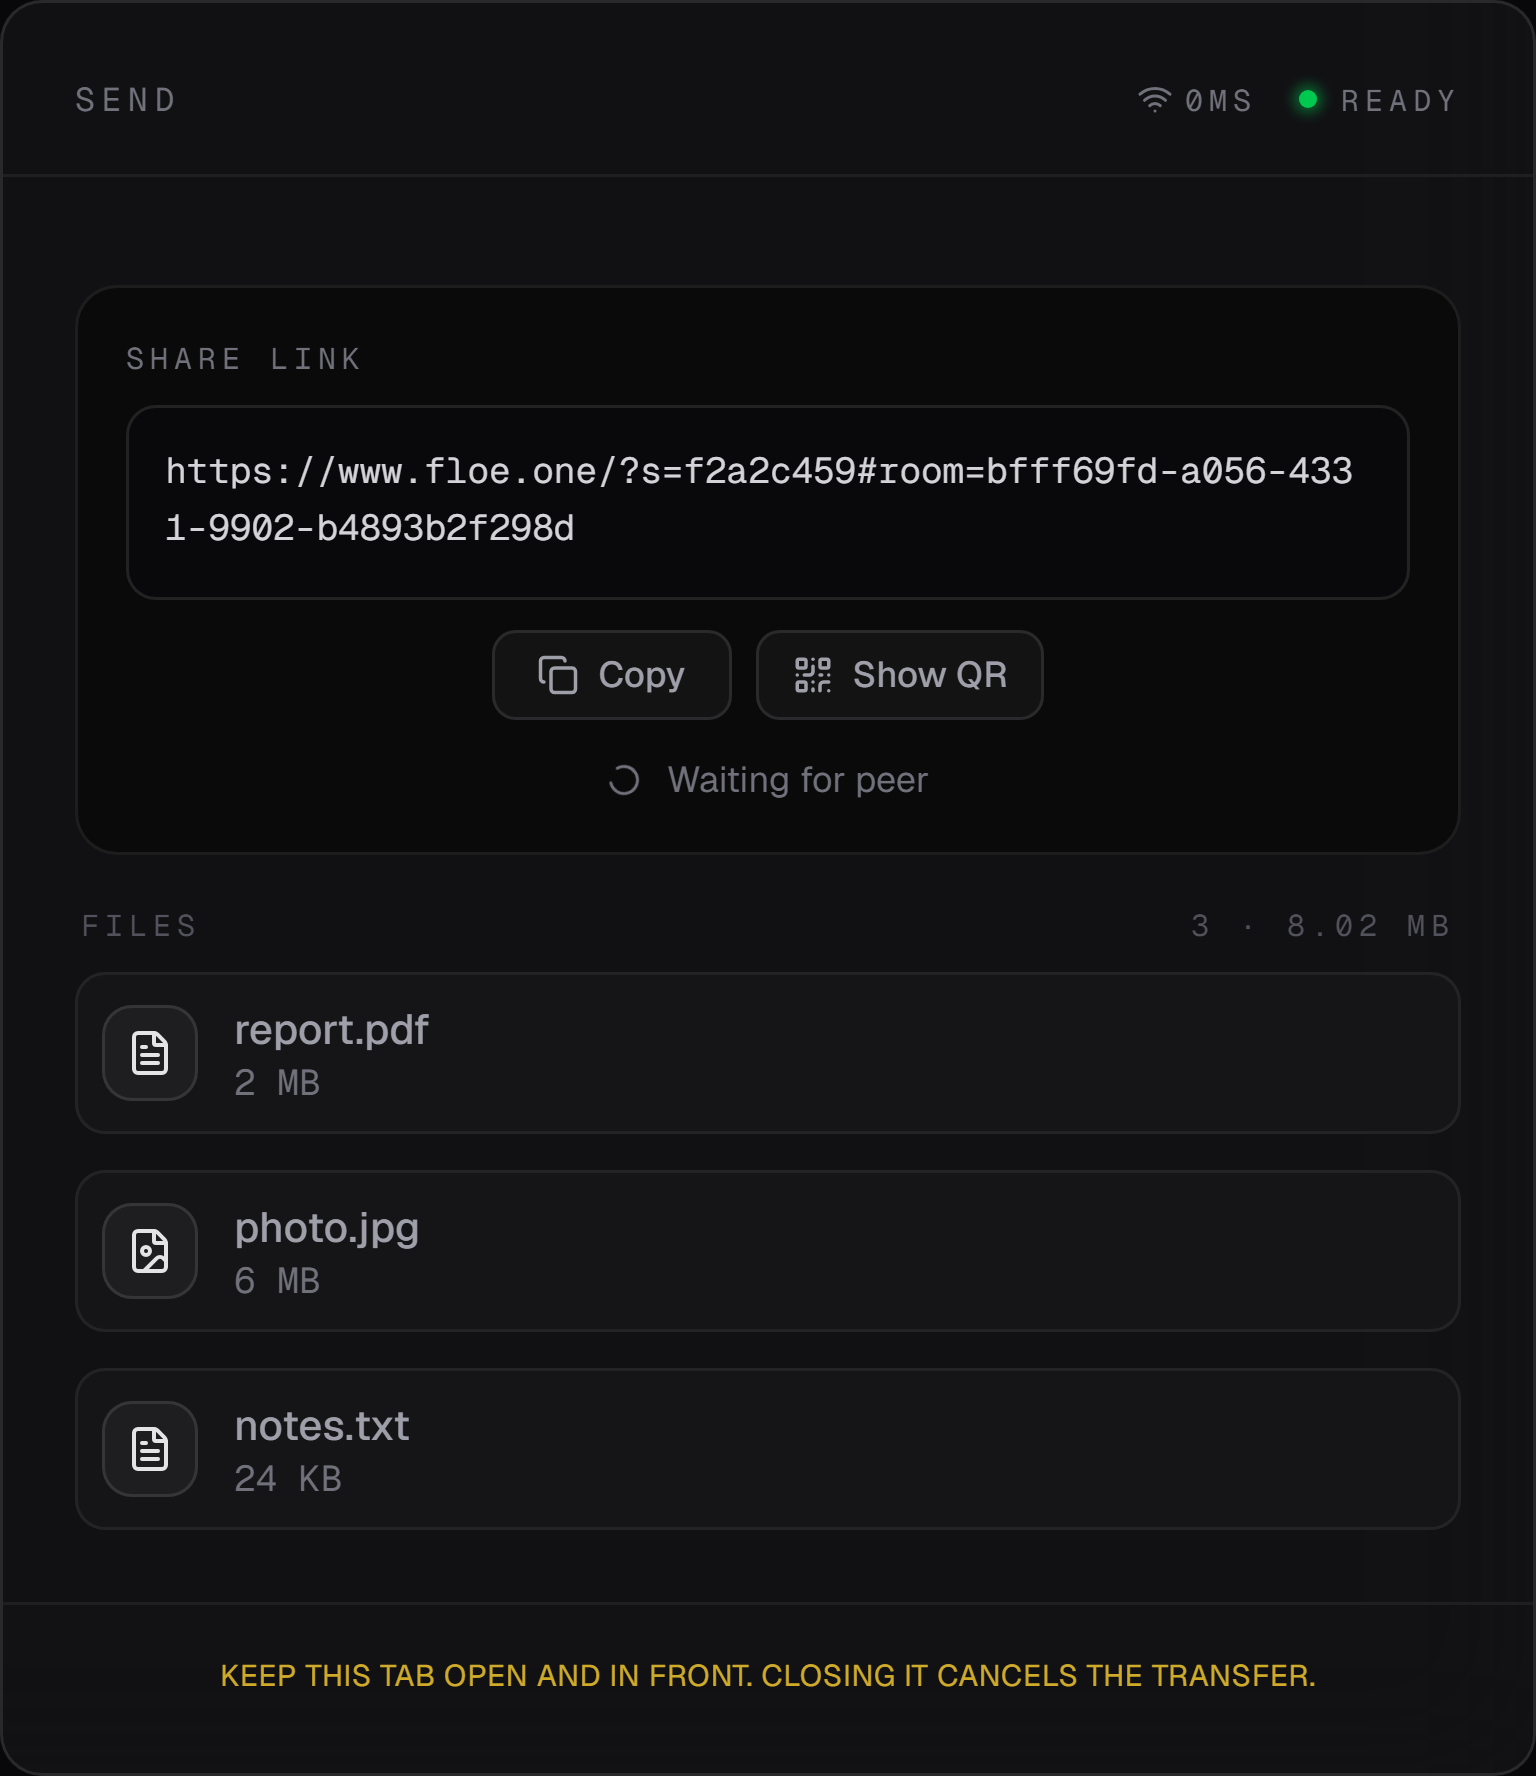
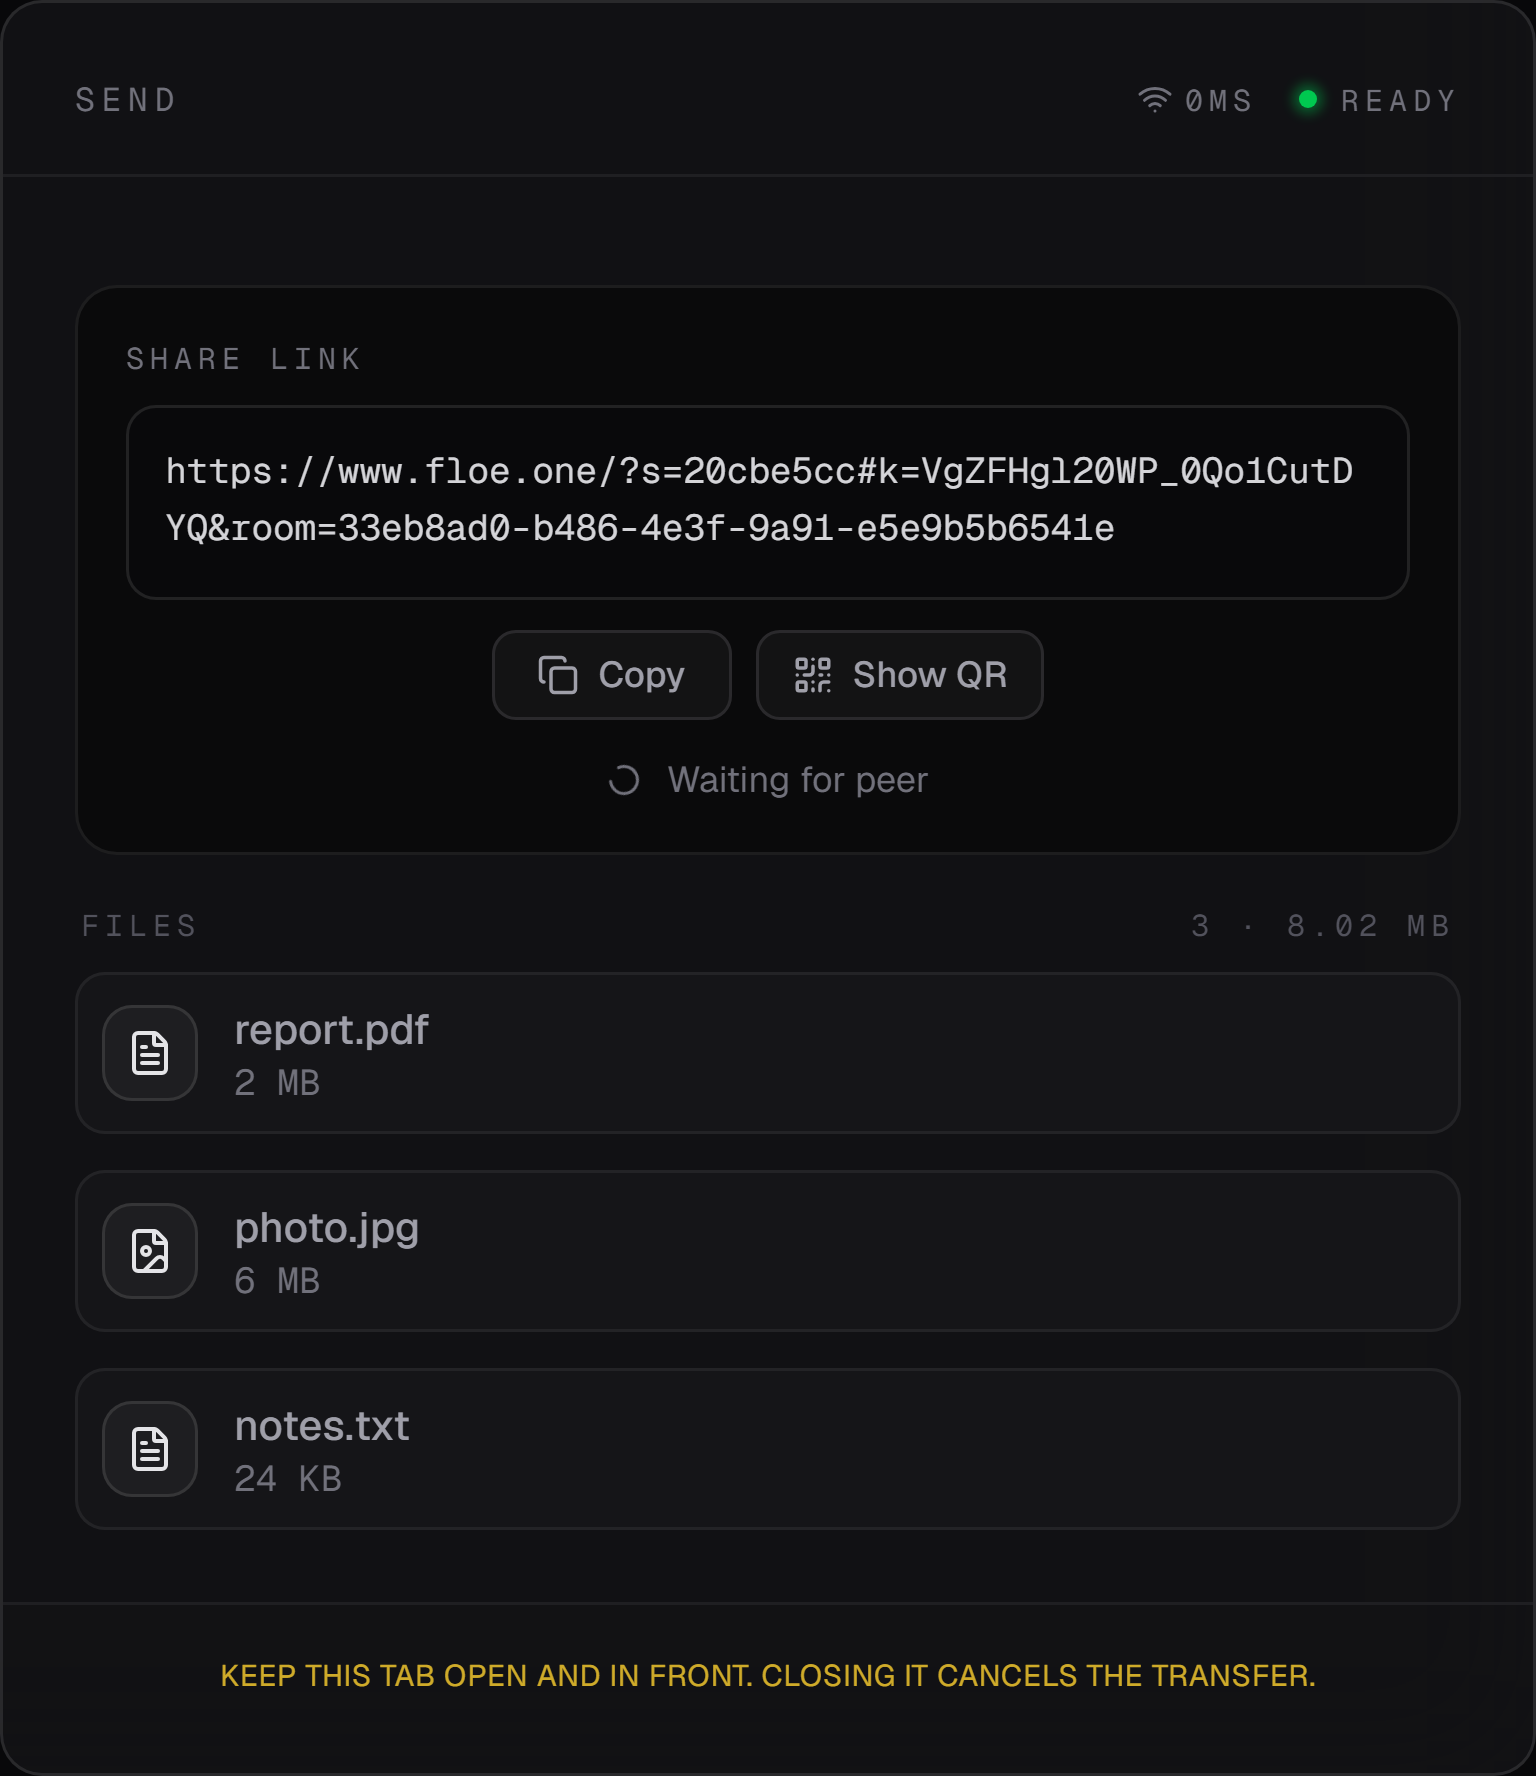
chore(release): point the site and docs at desktop-v1.1.0 and v1.12.0 (#900)
The tags exist and their assets are verified, so the download page, the docs'
examples and the release snapshot move to them.

The privacy policy says who makes and who checks a link key now that floe 1.12
and Floe Desktop 1.1 do. Its log sentence, and the docs' twin of it, now speak for
the server and for the proxy in front of it, because a room code travels in a
request path. The running Caddy on the floe.one VM was read on 2026-11-05: no
access log on any server, and no /api/code/ path in its journal or in PM2's log.

README and SECURITY name the link key and what it misses. The web docs picture is
retaken with a keyed link. The Desktop picture stays, with a caption that says it
is from 1.0.x, since retaking it would need a window on the owner's desktop during
the release.

Changed region(s): [[0.0938, 0.2477, 0.875, 0.3097]]

diff --git a/client/app/privacy/page.tsx b/client/app/privacy/page.tsx
@@ -62,8 +62,12 @@ export const metadata: Metadata = {
 // Rechecked on 2026-11-03, for the link key on a request link: what the /r page reads
 // and checks (lib/request/requestLink.ts, components/RequestVisitor.tsx,
 // lib/request/visitorState.ts) and the warning it sends, the same one by the same helper
-// (lib/keyCheckReport.ts, role visitor). No released Floe Desktop makes such a link yet,
-// so the sentence in How the transfer works stands (it changes with Desktop 1.1).
+// (lib/keyCheckReport.ts, role visitor).
+// Rechecked on 2026-11-05, for floe 1.12 and Floe Desktop 1.1, which make and check keyed
+// links (cli/engine/linkkey, cli/engine/transfer/keycheck.go), and for the log sentence, read
+// from the floe.one VM that day: the running Caddy has no access log on any server, and neither
+// its journal over 7 days nor PM2's log held a /api/code/ path. A code travels in that path, so
+// turning a request log on there has to change the sentence.
 // Rechecked on 2026-10-14: the browser's Sentry reports carry breadcrumbs
 // (the SDK's default clicks, navigations, fetch and XHR addresses and console
 // lines), each scrubbed of the room link by beforeBreadcrumb
@@ -183,15 +187,19 @@ export default function PrivacyPolicy() {
                     The encryption is WebRTC&apos;s own (DTLS), with keys that exist only on the two
                     devices for that one transfer. The codes the two devices use to recognize each
                     other (their certificate fingerprints) pass through our signaling server. A link
-                    made in the web app also carries a random link key in its fragment, which no
-                    server receives. Once the two devices connect, each one that holds the link key
+                    made in the web app, <InlineCode>floe</InlineCode> 1.12 or later, or Floe Desktop
+                    1.1 or later also carries a random link key in its fragment, which no server
+                    receives. Once the two devices connect, each one that holds the link key
                     proves it to the other, tied to the certificates actually in use, and the
                     receiving device stops the transfer before any file arrives if the sender cannot.
                     So a server that swaps the fingerprints on such a link is caught. A room code, and
-                    a link made by the CLI or Floe Desktop, carries no link key yet, and a sender in
-                    the browser does not yet refuse a receiver that cannot show the link key, and
-                    sends a file&apos;s name and size before that check has finished, so in those cases
-                    you are still trusting that server; the full list of what Floe
+                    a link made by an older <InlineCode>floe</InlineCode> or Floe Desktop, carries no
+                    link key, and <InlineCode>floe</InlineCode> before 1.12 and Floe Desktop before 1.1
+                    do not check the link key when receiving. A sender on a share link does not yet
+                    refuse a receiver that cannot show the link key, unless you use{' '}
+                    <InlineCode>floe send --link-only</InlineCode>, and it sends a file&apos;s name and
+                    size before that check has finished, so in those cases you are still trusting that
+                    server; the full list of what Floe
                     does not protect against is in{' '}
                     <LegalLink href="https://www.floe.one/docs/how-it-works/known-limitations">
                         Known limitations
@@ -372,7 +380,8 @@ export default function PrivacyPolicy() {
                     and a self-hosted copy of Floe ships with both turned off.
                 </p>
                 <p>
-                    The link you share carries its room id, and on a link made in the web app a link
+                    The link you share carries its room id, and on a link made in the web app,{' '}
+                    <InlineCode>floe</InlineCode> 1.12 or later, or Floe Desktop 1.1 or later, a link
                     key, in the URL fragment (the part after the{' '}
                     <InlineCode>#</InlineCode>). Browsers never include the fragment in HTTP requests,
                     so it stays out of hosting logs and referrer headers, and our analytics script is
@@ -386,8 +395,9 @@ export default function PrivacyPolicy() {
                     Floe Desktop, when it registers the three-word code that stands in for the link.
                     Both are held in memory only: the room is dropped when the last device leaves it,
                     and a code&apos;s mapping to its room id is dropped when the receiver joins or the
-                    room closes, and about ten minutes after the code was made at the latest. Neither
-                    is written to a log. Our signaling server never receives the link key, which stays
+                    room closes, and about ten minutes after the code was made at the latest. Our
+                    signaling server does not write either to its log, and the proxy in front of it
+                    keeps no request log. Our signaling server never receives the link key, which stays
                     in the link and in the memory of the page that read it.
                 </p>
                 <p>

diff --git a/client/lib/privacyText.test.ts b/client/lib/privacyText.test.ts
@@ -104,20 +104,25 @@ describe('the privacy page: what the link key does', () => {
         expect(page).not.toContain('no Floe app shows a verification code');
         expect(page).not.toContain('every WebRTC application');
         expect(page).toContain(
-            'A link made in the web app also carries a random link key in its fragment, which no server receives.',
+            'A link made in the web app, <InlineCode>floe</InlineCode> 1.12 or later, or Floe Desktop 1.1 or later also carries a random link key in its fragment, which no server receives.',
         );
         expect(page).toContain('So a server that swaps the fingerprints on such a link is caught.');
     });
 
     it('says where you still trust the server, and that a file name can go ahead of the check', () => {
-        expect(page).toContain('A room code, and a link made by the CLI or Floe Desktop, carries no link key yet,');
+        expect(page).toContain('A room code, and a link made by an older <InlineCode>floe</InlineCode> or Floe Desktop, carries no link key,');
         expect(page).toContain(
-            'and a sender in the browser does not yet refuse a receiver that cannot show the link key, and sends a file&apos;s name and size before that check has finished, so in those cases you are still trusting that server;',
+            'and <InlineCode>floe</InlineCode> before 1.12 and Floe Desktop before 1.1 do not check the link key when receiving.',
+        );
+        expect(page).toContain(
+            "A sender on a share link does not yet refuse a receiver that cannot show the link key, unless you use{' '} <InlineCode>floe send --link-only</InlineCode>, and it sends a file&apos;s name and size before that check has finished, so in those cases you are still trusting that server;",
         );
     });
 
     it('says the fragment holds it, and the signaling server never receives it', () => {
-        expect(page).toContain('The link you share carries its room id, and on a link made in the web app a link key, in the URL fragment');
+        expect(page).toContain(
+            "The link you share carries its room id, and on a link made in the web app,{' '} <InlineCode>floe</InlineCode> 1.12 or later, or Floe Desktop 1.1 or later, a link key, in the URL fragment",
+        );
         expect(page).toContain('Our signaling server never receives the link key,');
     });
 });
@@ -141,8 +146,8 @@ describe('the privacy page: the warning a failed check sends', () => {
 
 describe('the privacy page: a request link and the link key', () => {
     // W2 and T6-3: what the /r page now does with a link that holds one. The sentence says
-    // "a request link that carries one", because no released Floe Desktop makes such a link
-    // yet, which the sentence above it still says (decision D12).
+    // "a request link that carries one", because a link from Floe Desktop 1.0.x holds none,
+    // which the sentence above it says.
     it('names the shape, and calls the part after the # a room id', () => {
         expect(page).not.toContain('#&lt;key&gt;');
         expect(page).toContain('A request link looks like <InlineCode>floe.one/r/&lt;link id&gt;#&lt;room id&gt;</InlineCode>');
@@ -168,8 +173,17 @@ describe('the privacy page: a request link and the link key', () => {
         expect(Object.keys(report?.tags ?? {}).sort()).toEqual(['linkkey.mode', 'linkkey.outcome', 'linkkey.path', 'linkkey.role']);
     });
 
-    it('still says a link Floe Desktop makes carries no key yet', () => {
-        expect(page).toContain('A room code, and a link made by the CLI or Floe Desktop, carries no link key yet,');
+    it('says a link from an older Floe Desktop carries no key', () => {
+        expect(page).toContain('A room code, and a link made by an older <InlineCode>floe</InlineCode> or Floe Desktop, carries no link key,');
+    });
+});
+
+describe('the privacy page: what is logged', () => {
+    // A room code travels in the path of GET /api/code/:code, so the sentence has to speak for
+    // the proxy as well as the server. Read from the VM on 2026-11-05; see the page's header.
+    it('speaks for the server and for the proxy in front of it', () => {
+        expect(page).not.toContain('is written to a log.');
+        expect(page).toContain('Our signaling server does not write either to its log, and the proxy in front of it keeps no request log.');
     });
 });
 

diff --git a/client/components/landing/CliTerminal.tsx b/client/components/landing/CliTerminal.tsx
@@ -188,7 +188,7 @@ export function CliTerminal() {
                         {shownStage >= 4 && (
                             <div>
                                 <span className="text-zinc-500">{'  Link'}</span>
-                                {'   https://floe.one/#room=7f3a…'}
+                                {'   https://floe.one/#k=9xQ2…&room=7f3a…'}
                             </div>
                         )}
                         {shownStage >= 5 && (

diff --git a/client/lib/desktopRelease.ts b/client/lib/desktopRelease.ts
@@ -14,8 +14,8 @@
  */
 
 // Bump these two together on every desktop release.
-export const DESKTOP_VERSION = '1.0.4';
-export const DESKTOP_RELEASE_DATE = 'Oct 28, 2026';
+export const DESKTOP_VERSION = '1.1.0';
+export const DESKTOP_RELEASE_DATE = 'Nov 5, 2026';
 
 /**
  * The Microsoft Store listing: the primary Windows install path. The Store

diff --git a/CLAUDE.md b/CLAUDE.md
@@ -142,7 +142,7 @@ Every link Floe makes carries a random 128-bit link key in the fragment, which n
 - **Who enforces and who detects.** A receiver holding the link key (a browser, `floe receive`, Desktop Receive, a request link's host) refuses before any name or byte, and gives a silent sender 30 s (`KEY_RECEIVE_WAIT_MS`, Go's `receiveIdleTimeout`). `/r`, `floe send --to` on a keyed link and `floe send --link-only` wait 15 s for the proof before naming a file (`KeyCheckWait`, `KEY_CHECK_WAIT_MS`). The web sender, plain `floe send` and Desktop Send only detect: a wrong proof stops them and no proof does not, because a receiver by code has none, so a middle playing a keyless receiver gets the whole file. `linkKeyMode` in `keySession.ts` is the only reader of the browser's enforce levers.
 - **Levers,** each a one-line deploy, in `client/lib/transfer/protocol.ts`: `MAKE_LINK_KEYS` (the web sender adds a link key), `ENFORCE_LINK_KEYS` (off, every page only observes), `ENFORCE_SHARE_LINK_KEY` (the cutover, off until most people run a floe that proves the link key) and `KEY_CHECK_SDP_FALLBACK`. Go has none: a bad Go build is the next number.
 - **What it holds to.** The link key reaches no server, log, report or store, on any surface. `LinkKey` in the browser and `linkkey.Key` in Go redact themselves. `client/lib/keyCheckReport.ts` sends one Sentry warning of four enums for a check that failed, and `client/lib/linkKeyBoundaries.test.ts` pins the exits. A real middle is in `transfer/keycheck_mitm_test.go`, and `client/e2e/link-key.spec.ts` drives the browser.
-- **What the docs must say.** `docs/how-it-works/known-limitations.mdx` is the account: never that the server is no longer trusted, and a Go-side sentence names its floor (`floe` 1.12, Floe Desktop 1.1) so it is true before those ship. The strings are frozen in `client/lib/linkKeyCopy.ts`, `visitorCopy.ts`, `requestCopy.ts`, `desktop/frontend/src/errors.ts` and the line constants of `send.go`, `receive.go` and `sendto.go`.
+- **What the docs must say.** `docs/how-it-works/known-limitations.mdx` is the account: never that the server is no longer trusted, and a Go-side sentence names its floor (`floe` 1.12, Floe Desktop 1.1) so it stays true of older builds. The strings are frozen in `client/lib/linkKeyCopy.ts`, `visitorCopy.ts`, `requestCopy.ts`, `desktop/frontend/src/errors.ts` and the line constants of `send.go`, `receive.go` and `sendto.go`.
 
 ### Relay Size Limit
 Relayed (TURN) transfers are capped at 2 GB per session; Floe sets no size limit on a direct transfer (a browser that receives is still limited by what that browser can hold). The cap is a sender-side, pre-transfer gate: once the connection is established the sender inspects the selected ICE candidate pair, and only a confirmed relay path with more than the limit queued blocks (strictly greater-than, so exactly 2 GB is allowed). Detection failures fail open so a probe hiccup never blocks a legitimate transfer. Constants: `RELAY_SIZE_LIMIT` in `client/lib/relay.ts` (browser) and `RelaySizeLimit` in `cli/engine/transfer/relay.go` (CLI and desktop); keep the two in sync. The gate is local policy on the sender, not part of the wire protocol, so changing it needs no `ProtocolVersion` bump; the receiver runs the same check only on a request-link drop where the host confirms a relay on its own side.

diff --git a/README.md b/README.md
@@ -32,6 +32,8 @@
 
 Floe sends files directly from one device to another over an encrypted WebRTC connection. There is no account and no upload: files are never stored on a server, so both people need to be online at the same time. The signaling server only helps the two devices find each other. When a direct path is blocked, a TURN relay carries the transfer, still encrypted end to end, up to 2 GB per relayed transfer.
 
+A link also carries a link key that no server receives, so a receiver can catch a signaling server that steps in between. A room code carries no link key, and [Known limitations](https://www.floe.one/docs/how-it-works/known-limitations) says what the check misses.
+
 Each file is checked when it arrives, against its size and, when the sender provides one, its SHA-256. A file that fails is deleted and the transfer stops (see [File checks](https://www.floe.one/docs/how-it-works/file-checks)). Floe does not scan files for malware.
 
 The desktop app and the CLI contain no analytics or telemetry. They send only two things: an anonymous byte count, which the receiving side reports to the public counter, and an update check against GitHub. The desktop app checks at most once a day, and never in the Microsoft Store build. The CLI checks only when you run `floe version` or `floe update`. Both can be turned off. The floe.one website uses cookieless, anonymous analytics and error monitoring, described in [Security and privacy](https://www.floe.one/docs/security-privacy).

diff --git a/SECURITY.md b/SECURITY.md
@@ -42,6 +42,8 @@ This policy covers everything that ships from this repository:
 
 The signaling server sets up connections and never carries file data. Files go straight between the two devices, encrypted end to end (WebRTC data channels). When a direct path is blocked, a relay (a TURN server) passes the encrypted data along and cannot read it. Floe infrastructure never stores or inspects file data.
 
+What Floe does not protect against, including what the link key misses, is listed in [Known limitations](https://www.floe.one/docs/how-it-works/known-limitations). A way around the link key's check, or the key reaching a server or a log, is in scope.
+
 ## Supported Versions
 
 Security fixes land on `main` and ship in the next release of the affected component. Please make sure you are on the most recent release of the component you are reporting against.

diff --git a/DESKTOP.md b/DESKTOP.md
@@ -176,7 +176,7 @@ verify the connection independently of the server.
 
 **3b - Automatic verification (removes the human compare), in two parts**
 
-*Links: the link key  [DONE on main; web live, `floe` 1.12 and Floe Desktop 1.1 ship it]*
+*Links: the link key  [SHIPPED: web, `floe` 1.12, Floe Desktop 1.1]*
 - [x] A random 128-bit link key in the link's fragment, which no server receives
       (`engine/linkkey`, `client/lib/linkKey.ts`), in share links and request links
 - [x] A proof over both DTLS certificates actually in use, in a `kc` frame first on
